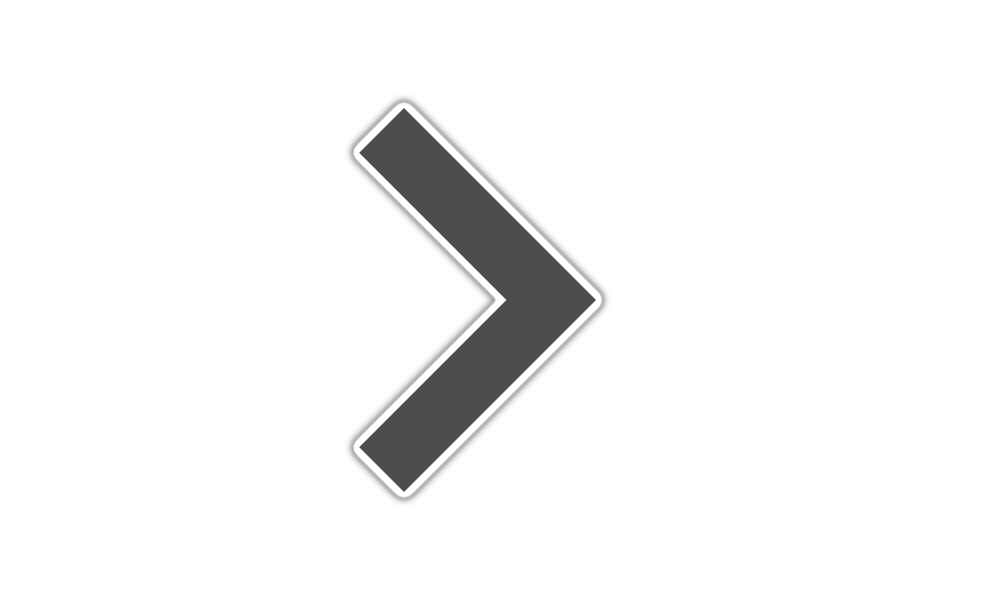
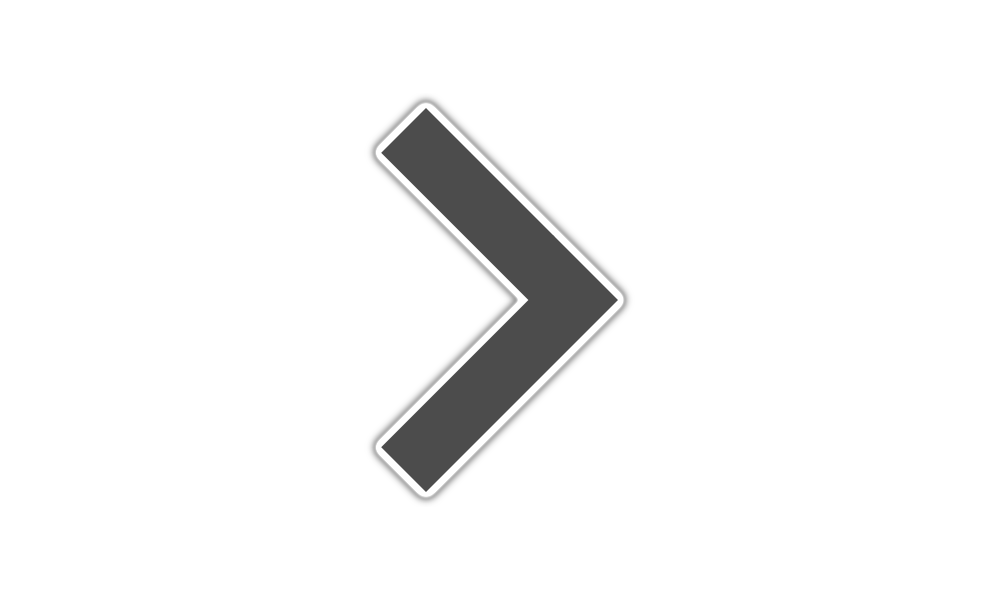
Pequeñas correcciones de tamaño de interfaz

Changed region(s): [[0.341, 0.15, 0.651, 0.84]]

diff --git a/Scripts/Primitives/aframe-slideshow-primitive.js b/Scripts/Primitives/aframe-slideshow-primitive.js
@@ -33,7 +33,7 @@ AFRAME.registerComponent('a-slideshow-nested-elements-', {
         this.fullscreenButton.style.zIndex = 9999;
         this.fullscreenButton.style.position = 'absolute';
         this.fullscreenButton.style.width = 'auto';
-        this.fullscreenButton.style.height = '9%';
+        this.fullscreenButton.style.height = '10%';
         this.fullscreenButton.style.top = '2%';
         this.fullscreenButton.style.left = '2%';
         this.fullscreenButton.classList.add("fullscreen");
@@ -50,11 +50,11 @@ AFRAME.registerComponent('a-slideshow-nested-elements-', {
             fullscreenImg.style.zIndex = 9998;
             fullscreenImg.style.position = 'absolute';
             if (document.documentElement.clientHeight > document.documentElement.clientWidth) {
-                fullscreenImg.style.width = '90%';
+                fullscreenImg.style.width = '85%';
                 fullscreenImg.style.height = 'auto';
             } else {
                 fullscreenImg.style.width = 'auto';
-                fullscreenImg.style.height = '90%';
+                fullscreenImg.style.height = '85%';
             }
             fullscreenImg.style.top = '50%';
             fullscreenImg.style.left = '50%';
@@ -63,11 +63,11 @@ AFRAME.registerComponent('a-slideshow-nested-elements-', {
 
             window.addEventListener("resize", () => {
                 if (document.documentElement.clientHeight > document.documentElement.clientWidth) {
-                    fullscreenImg.style.width = '90%';
+                    fullscreenImg.style.width = '85%';
                     fullscreenImg.style.height = 'auto';
                 } else {
                     fullscreenImg.style.width = 'auto';
-                    fullscreenImg.style.height = '90%';
+                    fullscreenImg.style.height = '85%';
                 }
             });
 
@@ -78,7 +78,7 @@ AFRAME.registerComponent('a-slideshow-nested-elements-', {
             fullscreenExit.style.zIndex = 9999;
             fullscreenExit.style.position = 'absolute';
             fullscreenExit.style.width = 'auto';
-            fullscreenExit.style.height = '9%';
+            fullscreenExit.style.height = '10%';
             fullscreenExit.style.top = '2%';
             fullscreenExit.style.left = '2%';
             fullscreenExit.classList.add("fullscreen");
@@ -104,7 +104,7 @@ AFRAME.registerComponent('a-slideshow-nested-elements-', {
         this.leftArrow.style.zIndex = 9999;
         this.leftArrow.style.position = 'absolute';
         this.leftArrow.style.width = 'auto';
-        this.leftArrow.style.height = '10%';
+        this.leftArrow.style.height = '15%';
         this.leftArrow.style.bottom = '2%';
         this.leftArrow.style.left = '10%';
         this.leftArrow.classList.add("fullscreen");
@@ -118,7 +118,7 @@ AFRAME.registerComponent('a-slideshow-nested-elements-', {
         this.rightArrow.style.zIndex = 9999;
         this.rightArrow.style.position = 'absolute';
         this.rightArrow.style.width = 'auto';
-        this.rightArrow.style.height = '10%';
+        this.rightArrow.style.height = '15%';
         this.rightArrow.style.bottom = '2%';
         this.rightArrow.style.right = '10%';
         this.rightArrow.classList.add("fullscreen");

diff --git a/Scripts/Primitives/aframe-interactive-video-primitive.js b/Scripts/Primitives/aframe-interactive-video-primitive.js
@@ -31,7 +31,7 @@ AFRAME.registerComponent('a-interactive-video-nested-elements-', {
         this.fullscreenButton.style.zIndex = 9999;
         this.fullscreenButton.style.position = 'absolute';
         this.fullscreenButton.style.width = 'auto';
-        this.fullscreenButton.style.height = '9%';
+        this.fullscreenButton.style.height = '10%';
         this.fullscreenButton.style.top = '2%';
         this.fullscreenButton.style.left = '2%';
         this.fullscreenButton.classList.add("fullscreen");
@@ -48,11 +48,11 @@ AFRAME.registerComponent('a-interactive-video-nested-elements-', {
             fullscreenVid.style.zIndex = 9998;
             fullscreenVid.style.position = 'absolute';
             if (document.documentElement.clientHeight > document.documentElement.clientWidth) {
-                fullscreenVid.style.width = '90%';
+                fullscreenVid.style.width = '85%';
                 fullscreenVid.style.height = 'auto';
             } else {
                 fullscreenVid.style.width = 'auto';
-                fullscreenVid.style.height = '90%';
+                fullscreenVid.style.height = '85%';
             }
             fullscreenVid.style.top = '50%';
             fullscreenVid.style.left = '50%';
@@ -61,11 +61,11 @@ AFRAME.registerComponent('a-interactive-video-nested-elements-', {
 
             window.addEventListener("resize", () => {
                 if (document.documentElement.clientHeight > document.documentElement.clientWidth) {
-                    fullscreenVid.style.width = '90%';
+                    fullscreenVid.style.width = '85%';
                     fullscreenVid.style.height = 'auto';
                 } else {
                     fullscreenVid.style.width = 'auto';
-                    fullscreenVid.style.height = '90%';
+                    fullscreenVid.style.height = '85%';
                 }
             });
 
@@ -76,7 +76,7 @@ AFRAME.registerComponent('a-interactive-video-nested-elements-', {
             fullscreenExit.style.zIndex = 9999;
             fullscreenExit.style.position = 'absolute';
             fullscreenExit.style.width = 'auto';
-            fullscreenExit.style.height = '9%';
+            fullscreenExit.style.height = '10%';
             fullscreenExit.style.top = '2%';
             fullscreenExit.style.left = '2%';
             fullscreenExit.classList.add("fullscreen");
